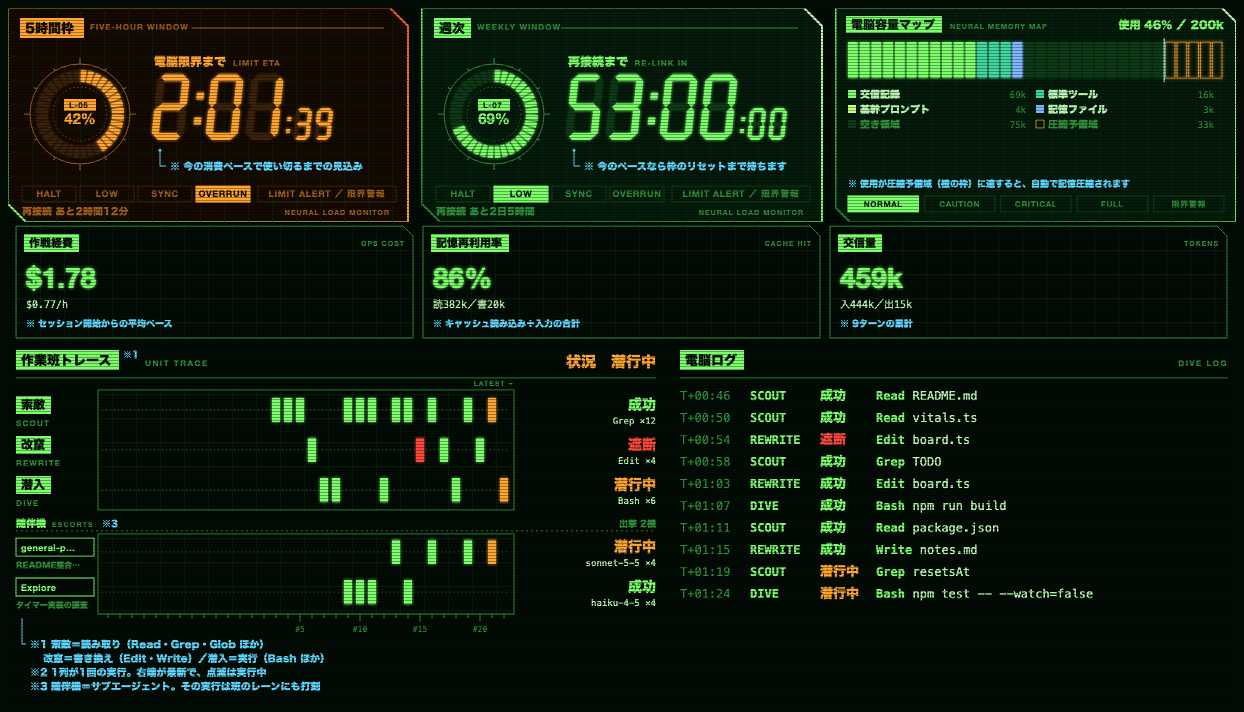
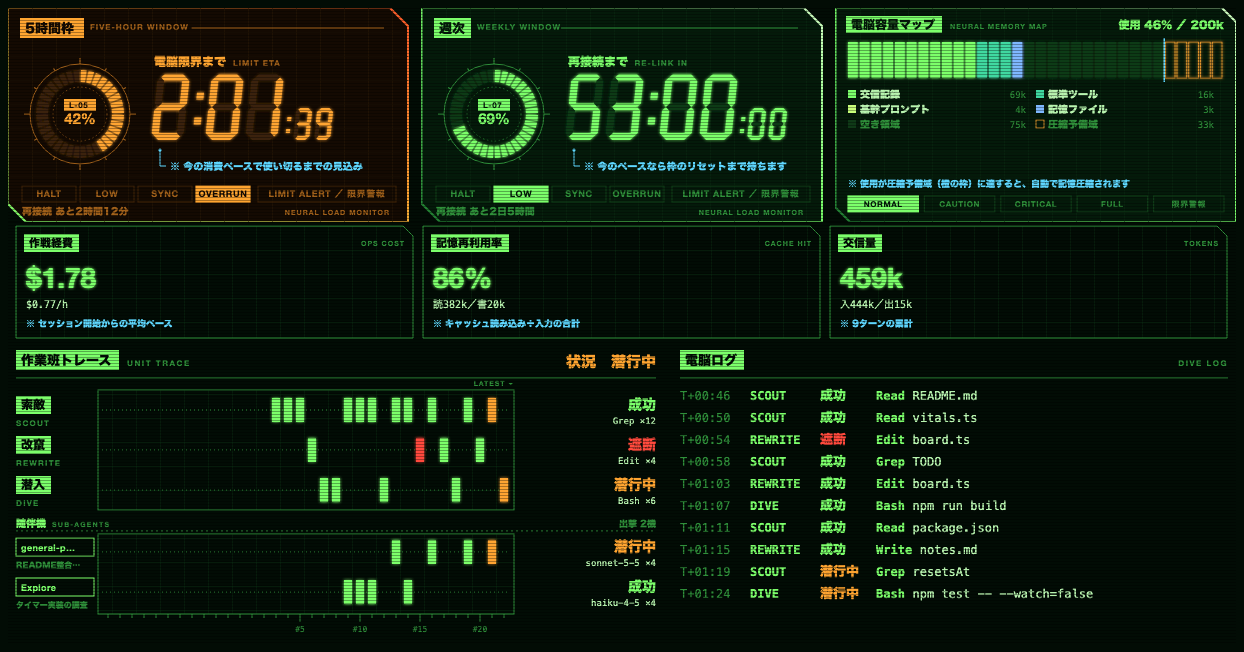
refactor: drop the trace footnotes and label escorts as SUB-AGENTS
- Remove the cyan footnotes and markers under the unit trace; the unit
  roles stay documented in the README
- Rename the escort lane heading from ESCORTS to SUB-AGENTS
- Retake the README screenshots

diff --git a/hooks/board.ts b/hooks/board.ts
@@ -1,5 +1,5 @@
 import type { Escort, LogEntry, UnitName, Units, Verdict } from '../types'
-import { AMBER, CYAN, GREEN, MOSS, PAPER, RED, VOID, clip, crtDefs, scanlines, svgSize, tag, tagWidth, text, xml } from './palette'
+import { AMBER, GREEN, MOSS, PAPER, RED, VOID, clip, crtDefs, scanlines, svgSize, tag, tagWidth, text, xml } from './palette'
 import type { Layout } from './palette'
 
 export const UNIT_LABEL: Record<UnitName, string> = { SCOUT: '索敵', REWRITE: '改竄', DIVE: '潜入' }
@@ -28,7 +28,7 @@ export const elapsed = (from: number, at: number): string => {
 // ── 作業班トレース ────────────────────────────────────────
 // 3班を横長のレーンに並べ、ツールの実行を1回1列で打刻する。右端が最新。
 // その下に随伴機(サブエージェント)のレーンを足し、その機体が行った実行を同じ列に重ねて打刻する。
-// 列の下に通し番号の目盛りを振り、欄外にシアンで受け持ちを注釈する
+// 列の下には通し番号の目盛りを振る
 
 const LANE_TOP = 46
 const LANE_H = 40
@@ -36,13 +36,6 @@ const STEP = 12
 // 随伴機のレーンの上の見出し行の高さ
 const ESCORT_HEAD = 22
 const ESCORT_SLOTS = 3
-
-const NOTES = [
-  '※1 索敵＝読み取り（Read・Grep・Glob ほか）',
-  '　  改竄＝書き換え（Edit・Write）／潜入＝実行（Bash ほか）',
-  '※2 1列が1回の実行。右端が最新で、点滅は実行中',
-  '※3 随伴機＝サブエージェント。その実行は班のレーンにも打刻',
-]
 
 // 実行中の機体を先に、そのあとに新しい順で、最大3機を出す
 export const escortsShown = (escorts: readonly Escort[]): Escort[] =>
@@ -53,7 +46,8 @@ export const escortsShown = (escorts: readonly Escort[]): Escort[] =>
 
 const tapeY = (escortCount: number): number => LANE_TOP + 3 * LANE_H + ESCORT_HEAD + escortCount * LANE_H
 
-export const traceHeight = (escortCount: number): number => tapeY(escortCount) + 30 + NOTES.length * 14
+// 目盛りの番号(目盛りの18px下)まで入る高さ
+export const traceHeight = (escortCount: number): number => tapeY(escortCount) + 26
 
 // claude-haiku-4-5-20251001 → haiku-4-5
 export const shortModel = (model: string): string => model.replace(/^claude-/, '').replace(/-\d{8}$/, '')
@@ -135,8 +129,7 @@ const trace = (
     ...escortLanes.map((one, row) => lane(one, escortTop + row * LANE_H)),
   ].join('')
   const escortHead = `${text(0, escortTop - 7, 10, GREEN, '随伴機', { weight: 800 })}
-  ${text(36, escortTop - 7, 7, MOSS, 'ESCORTS', { face: 'sans', weight: 800, spacing: 1.2 })}
-  ${text(trackX, escortTop - 7, 9, CYAN, '※3', { weight: 700 })}
+  ${text(36, escortTop - 7, 7, MOSS, 'SUB-AGENTS', { face: 'sans', weight: 800, spacing: 1.2 })}
   ${text(width, escortTop - 7, 9, MOSS, escorts.length === 0 ? '出撃なし' : `出撃 ${escorts.length}機`, { anchor: 'end' })}
   <line x1="0" y1="${escortTop - 3}" x2="${width}" y2="${escortTop - 3}" stroke="${MOSS}" stroke-dasharray="2 3"/>`
 
@@ -152,13 +145,11 @@ const trace = (
   }).join('')
 
   const title = tagWidth(13, '作業班トレース')
-  const notes = NOTES.map((one, i) => text(14, tapeTop + 34 + i * 14, 10, CYAN, one, { weight: 600 })).join('')
   const escortFrame = shown.length
     ? `<rect x="${trackX - 4}" y="${escortTop}" width="${columns * STEP + 8}" height="${shown.length * LANE_H}" fill="url(#grid)" stroke="${MOSS}" stroke-width="1"/>`
     : ''
   return `${tag(0, 4, 20, 13, GREEN, VOID, '作業班トレース')}
-  ${text(title + 4, 12, 9, CYAN, '※1', { weight: 700 })}
-  ${text(title + 26, 20, 8, MOSS, 'UNIT TRACE', { face: 'sans', weight: 800, spacing: 1.5 })}
+  ${text(title + 8, 20, 8, MOSS, 'UNIT TRACE', { face: 'sans', weight: 800, spacing: 1.5 })}
   ${text(width, 21, 15, VERDICT_COLOR[decision], `状況　${VERDICT_TEXT[decision]}`, { anchor: 'end', weight: 800 })}
   <line x1="0" y1="32" x2="${width}" y2="32" stroke="${MOSS}"/>
   <rect x="${trackX - 4}" y="${LANE_TOP - 2}" width="${columns * STEP + 8}" height="${3 * LANE_H}" fill="url(#grid)" stroke="${MOSS}" stroke-width="1"/>
@@ -166,9 +157,7 @@ const trace = (
   ${escortHead}
   ${lanes}
   ${tape}
-  ${text(trackX + columns * STEP + 4, LANE_TOP - 6, 7, MOSS, 'LATEST ▾', { anchor: 'end', face: 'sans', weight: 800, spacing: 1 })}
-  <polyline points="6,${tapeTop + 4} 6,${tapeTop + 30} 10,${tapeTop + 30}" fill="none" stroke="${CYAN}" stroke-width="1"/>
-  ${notes}`
+  ${text(trackX + columns * STEP + 4, LANE_TOP - 6, 7, MOSS, 'LATEST ▾', { anchor: 'end', face: 'sans', weight: 800, spacing: 1 })}`
 }
 
 const ROW_H = 22

diff --git a/README.md b/README.md
@@ -46,8 +46,8 @@ Claude Codeのサイドパネルに、燐光グリーンの電脳モニターを
 **作業班トレースと電脳ログ**
 
 - ツールの実行を3つの班が受け持ちます。`索敵 SCOUT`はRead・Grep・Globなどの読み取り、`改竄 REWRITE`はEdit・Write・NotebookEditの書き換え、`潜入 DIVE`はBashとそれ以外の実行です。
-- 3班を横長のレーンに並べ、1回の実行を1列として打刻します。右端が最新です。結果に応じて、`成功`は緑、`遮断`は赤、実行中の`潜行中`は橙の点滅で表示します。列の下には通し番号の目盛りを振り、班の受け持ちは欄外に注釈します。
-- その下の`随伴機`には、サブエージェントを1機1レーンで並べます。種類・作業内容・モデル・実行回数を表示し、その機体が行った実行を班のレーンと同じ列に重ねて打刻します。実行中の機体を優先して、最大3機まで出します。
+- 3班を横長のレーンに並べ、1回の実行を1列として打刻します。右端が最新です。結果に応じて、`成功`は緑、`遮断`は赤、実行中の`潜行中`は橙の点滅で表示します。列の下には通し番号の目盛りを振ります。
+- その下の`随伴機 SUB-AGENTS`には、サブエージェントを1機1レーンで並べます。種類・作業内容・モデル・実行回数を表示し、その機体が行った実行を班のレーンと同じ列に重ねて打刻します。実行中の機体を優先して、最大3機まで出します。
 - 電脳ログには、経過時間・担当・結果・ツール・対象を等幅で1行ずつ記録します。
 
 **入力欄の上の帯**
